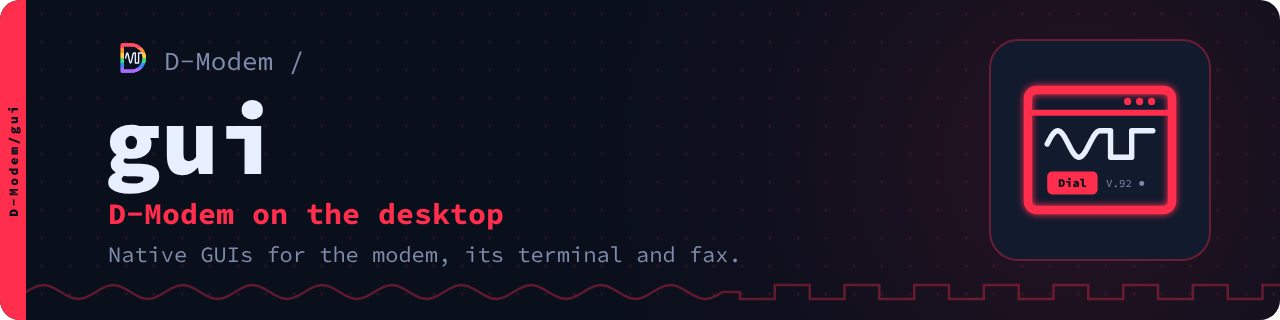
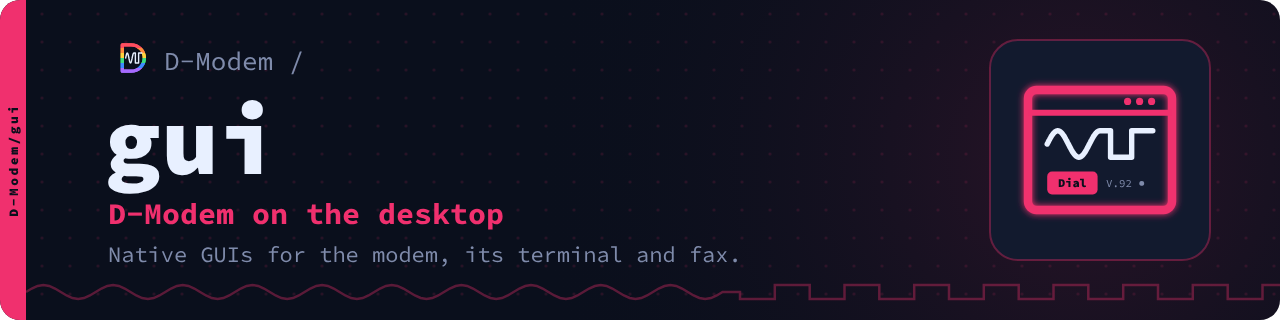
gui's Scarlet a little more purple (#f0306e); the suite site in rainbow
The suite's own site stripes its header edge in all six Books and shows
every repository in the bar in its colour; inside <div class="suite-home">
each repository's card and links take its colour.

Claude-Session: https://claude.ai/code/session_01B82eRR7XmhWoFbzJFFFqde

Changed region(s): [[0.7812, 0.25, 0.9375, 0.6875], [0.0, 0.0, 0.0312, 1.0], [0.0625, 0.625, 0.4062, 0.7188]]

diff --git a/pages/theme/assets/suite/d-modem.css b/pages/theme/assets/suite/d-modem.css
@@ -53,6 +53,14 @@
 .suite-bar a[data-repo="menu"]:hover { color: #3ddc84; }
 .suite-bar a[data-repo="bbs"]:hover { color: #3d8bff; }
 .suite-bar a[data-repo="go3270"]:hover { color: #a66bff; }
+/* on the suite's own site the bar shows every repository in its colour */
+.suite-bar--rainbow a[data-repo="D-Modem"] { color: #ff4d5e; }
+.suite-bar--rainbow a[data-repo="hardware"] { color: #ff8a3d; }
+.suite-bar--rainbow a[data-repo="app"] { color: #ffd23d; }
+.suite-bar--rainbow a[data-repo="menu"] { color: #3ddc84; }
+.suite-bar--rainbow a[data-repo="bbs"] { color: #3d8bff; }
+.suite-bar--rainbow a[data-repo="go3270"] { color: #a66bff; }
+.suite-bar--rainbow a[data-repo="brand"] { color: #f2f4fa; }
 
 /* landing pages: a grid of cards (<div class="grid cards" markdown>) */
 .md-typeset .grid.cards > ul > li { border-left: 3px solid var(--suite-accent); }
@@ -77,3 +85,24 @@
   border-radius: 0.15em;
   box-shadow: 0 0 0 1px var(--md-default-fg-color--lighter);
 }
+
+/* the suite's home page (<div class="suite-home" markdown> around it): each
+   repository's card and links in its own Rainbow Book */
+.md-typeset .suite-home a[href^="https://github.com/D-Modem/D-Modem"], .md-typeset .suite-home a[href^="https://d-modem.github.io/D-Modem/"] { color: #ff4d5e; }
+.md-typeset .suite-home .grid.cards > ul > li:has(> p:first-child a[href^="https://github.com/D-Modem/D-Modem"]) { border-left-color: #ff4d5e; }
+.md-typeset .suite-home a[href^="https://github.com/D-Modem/hardware"], .md-typeset .suite-home a[href^="https://d-modem.github.io/hardware/"] { color: #ff8a3d; }
+.md-typeset .suite-home .grid.cards > ul > li:has(> p:first-child a[href^="https://github.com/D-Modem/hardware"]) { border-left-color: #ff8a3d; }
+.md-typeset .suite-home a[href^="https://github.com/D-Modem/app"], .md-typeset .suite-home a[href^="https://d-modem.github.io/app/"] { color: #ffd23d; }
+.md-typeset .suite-home .grid.cards > ul > li:has(> p:first-child a[href^="https://github.com/D-Modem/app"]) { border-left-color: #ffd23d; }
+.md-typeset .suite-home a[href^="https://github.com/D-Modem/menu"], .md-typeset .suite-home a[href^="https://d-modem.github.io/menu/"] { color: #3ddc84; }
+.md-typeset .suite-home .grid.cards > ul > li:has(> p:first-child a[href^="https://github.com/D-Modem/menu"]) { border-left-color: #3ddc84; }
+.md-typeset .suite-home a[href^="https://github.com/D-Modem/bbs"], .md-typeset .suite-home a[href^="https://d-modem.github.io/bbs/"] { color: #3d8bff; }
+.md-typeset .suite-home .grid.cards > ul > li:has(> p:first-child a[href^="https://github.com/D-Modem/bbs"]) { border-left-color: #3d8bff; }
+.md-typeset .suite-home a[href^="https://github.com/D-Modem/go3270"], .md-typeset .suite-home a[href^="https://d-modem.github.io/go3270/"] { color: #a66bff; }
+.md-typeset .suite-home .grid.cards > ul > li:has(> p:first-child a[href^="https://github.com/D-Modem/go3270"]) { border-left-color: #a66bff; }
+.md-typeset .suite-home a[href^="https://github.com/D-Modem/gui"], .md-typeset .suite-home a[href^="https://d-modem.github.io/gui/"] { color: #f0306e; }
+.md-typeset .suite-home .grid.cards > ul > li:has(> p:first-child a[href^="https://github.com/D-Modem/gui"]) { border-left-color: #f0306e; }
+.md-typeset .suite-home a[href^="https://github.com/D-Modem/brand"], .md-typeset .suite-home a[href^="https://d-modem.github.io/brand/"] { color: #f2f4fa; }
+.md-typeset .suite-home .grid.cards > ul > li:has(> p:first-child a[href^="https://github.com/D-Modem/brand"]) { border-left-color: #f2f4fa; }
+[data-md-color-scheme="default"] .md-typeset .suite-home a[href^="https://github.com/D-Modem/brand"] { color: #5a6380; }
+[data-md-color-scheme="default"] .md-typeset .suite-home a { filter: brightness(0.75); }

diff --git a/pages/theme/main.html b/pages/theme/main.html
@@ -6,9 +6,14 @@
   {%- set books = {
     "D-Modem": "#ff4d5e", "hardware": "#ff8a3d", "app": "#ffd23d",
     "menu": "#3ddc84", "bbs": "#3d8bff", "go3270": "#a66bff",
-    "gui": "#ff2e4d", "brand": "#f2f4fa", "D-Modem.github.io": "#3dff9a"
+    "gui": "#f0306e", "brand": "#f2f4fa", "D-Modem.github.io": "#3dff9a"
   } -%}
   <style>:root { --suite-accent: {{ books[config.extra.repo] or "#3dff9a" }}; }</style>
+  {%- if config.extra.repo == "D-Modem.github.io" %}
+  {#- the suite's own site: the header's edge striped in all six Books, like the mark #}
+  <style>.md-header { border-bottom: 4px solid transparent; border-image: linear-gradient(90deg,
+    #ff4d5e 0 16.66%, #ff8a3d 0 33.33%, #ffd23d 0 50%, #3ddc84 0 66.66%, #3d8bff 0 83.33%, #a66bff 0) 1; }</style>
+  {%- endif %}
   <link rel="stylesheet" href="{{ 'assets/suite/d-modem.css' | url }}">
   {{ super() }}
 {% endblock %}

diff --git a/pages/theme/partials/suite.html b/pages/theme/partials/suite.html
@@ -8,7 +8,7 @@
   ("go3270", "go3270", "TN3270 library"),
   ("brand", "brand", "Logos and colours")
 ] -%}
-<nav class="suite-bar" aria-label="D-Modem sites">
+<nav class="suite-bar{% if config.extra.repo == "D-Modem.github.io" %} suite-bar--rainbow{% endif %}" aria-label="D-Modem sites">
   <a class="suite-bar__home" href="https://d-modem.github.io/">D-Modem suite</a>
   <ul>
     {%- for name, path, title in sites %}

diff --git a/tools/gen.py b/tools/gen.py
@@ -31,7 +31,7 @@ REPOS = {
                      tag="User login and management for dial-up callers", sub="modemmenu: a login, then the BBS, PPP or a shell.",
                      chips=["Go", "PAM", "LDAP", "SQL", "PPP"]),
     # the Scarlet Book (SACD), one of the free ones
-    "gui":      dict(book="Scarlet", color="#ff2e4d", icon="gui",
+    "gui":      dict(book="Scarlet", color="#f0306e", icon="gui",
                      tag="D-Modem on the desktop", sub="Native GUIs for the modem, its terminal and fax.",
                      chips=["Windows", "macOS", "Linux", "Desktop"]),
     # the White Book (Video CD), one of the free ones, for the brand itself

diff --git a/docs/reference.md b/docs/reference.md
@@ -16,7 +16,7 @@ Each repository's Rainbow Book is its accent: on its banner, its social preview 
 | `bbs` | Blue (CD Extra) | <span class="suite-swatch" style="background:#3d8bff"></span> `#3d8bff` | `bbs` | A bulletin board for every caller | Telnet, TN3270 and modem callers, in Go. | Go, ANSI, TN3270, Doors |
 | `go3270` | Purple (DDCD) | <span class="suite-swatch" style="background:#a66bff"></span> `#a66bff` | `3270` | Go servers for 3270 terminals | Build TN3270 data streams from fields. | Go, TN3270, EBCDIC |
 | `menu` | Green (CD-i) | <span class="suite-swatch" style="background:#3ddc84"></span> `#3ddc84` | `menu` | User login and management for dial-up callers | modemmenu: a login, then the BBS, PPP or a shell. | Go, PAM, LDAP, SQL, PPP |
-| `gui` | Scarlet | <span class="suite-swatch" style="background:#ff2e4d"></span> `#ff2e4d` | `gui` | D-Modem on the desktop | Native GUIs for the modem, its terminal and fax. | Windows, macOS, Linux, Desktop |
+| `gui` | Scarlet | <span class="suite-swatch" style="background:#f0306e"></span> `#f0306e` | `gui` | D-Modem on the desktop | Native GUIs for the modem, its terminal and fax. | Windows, macOS, Linux, Desktop |
 | `brand` | White | <span class="suite-swatch" style="background:#f2f4fa"></span> `#f2f4fa` | `books` | Logos, colours and type | The mark, the Rainbow Books, Sauce Code Pro. | SVG, PNG, Rainbow Books, Sauce Code Pro |
 | `suite` | Rainbow | <span class="suite-swatch" style="background:#9fb0d8"></span> `#9fb0d8` | `mark` | The open source dial-up suite | V.92 softmodem, app, boards, BBS and login. | V.92, SIP, Android, RP2040, BBS |
 

diff --git a/docs/palette.md b/docs/palette.md
@@ -14,7 +14,7 @@ full name.
 | Green | CD-i | `#3ddc84` | [menu](https://github.com/D-Modem/menu) |
 | Blue | CD Extra | `#3d8bff` | [bbs](https://github.com/D-Modem/bbs) |
 | Purple | DDCD | `#a66bff` | [go3270](https://github.com/D-Modem/go3270) |
-| Scarlet | SACD | `#ff2e4d` | [gui](https://github.com/D-Modem/gui) |
+| Scarlet | SACD | `#f0306e` | [gui](https://github.com/D-Modem/gui) |
 | White | Video CD | `#f2f4fa` | [brand](https://github.com/D-Modem/brand) |
 
 Beige (Photo CD) is free for a future repository.
